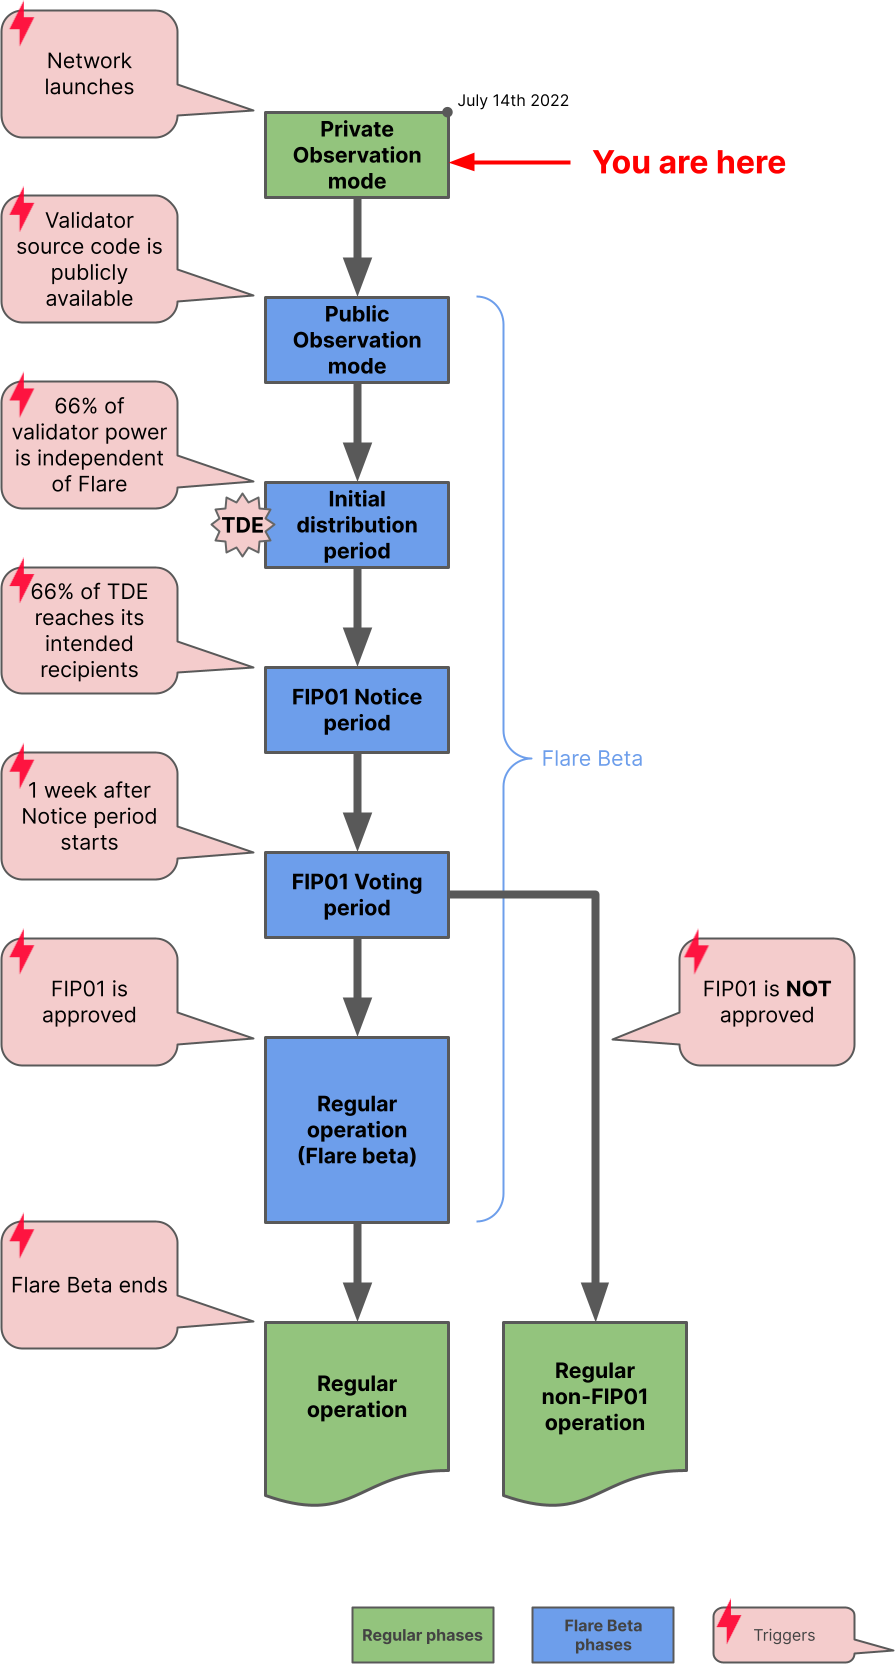
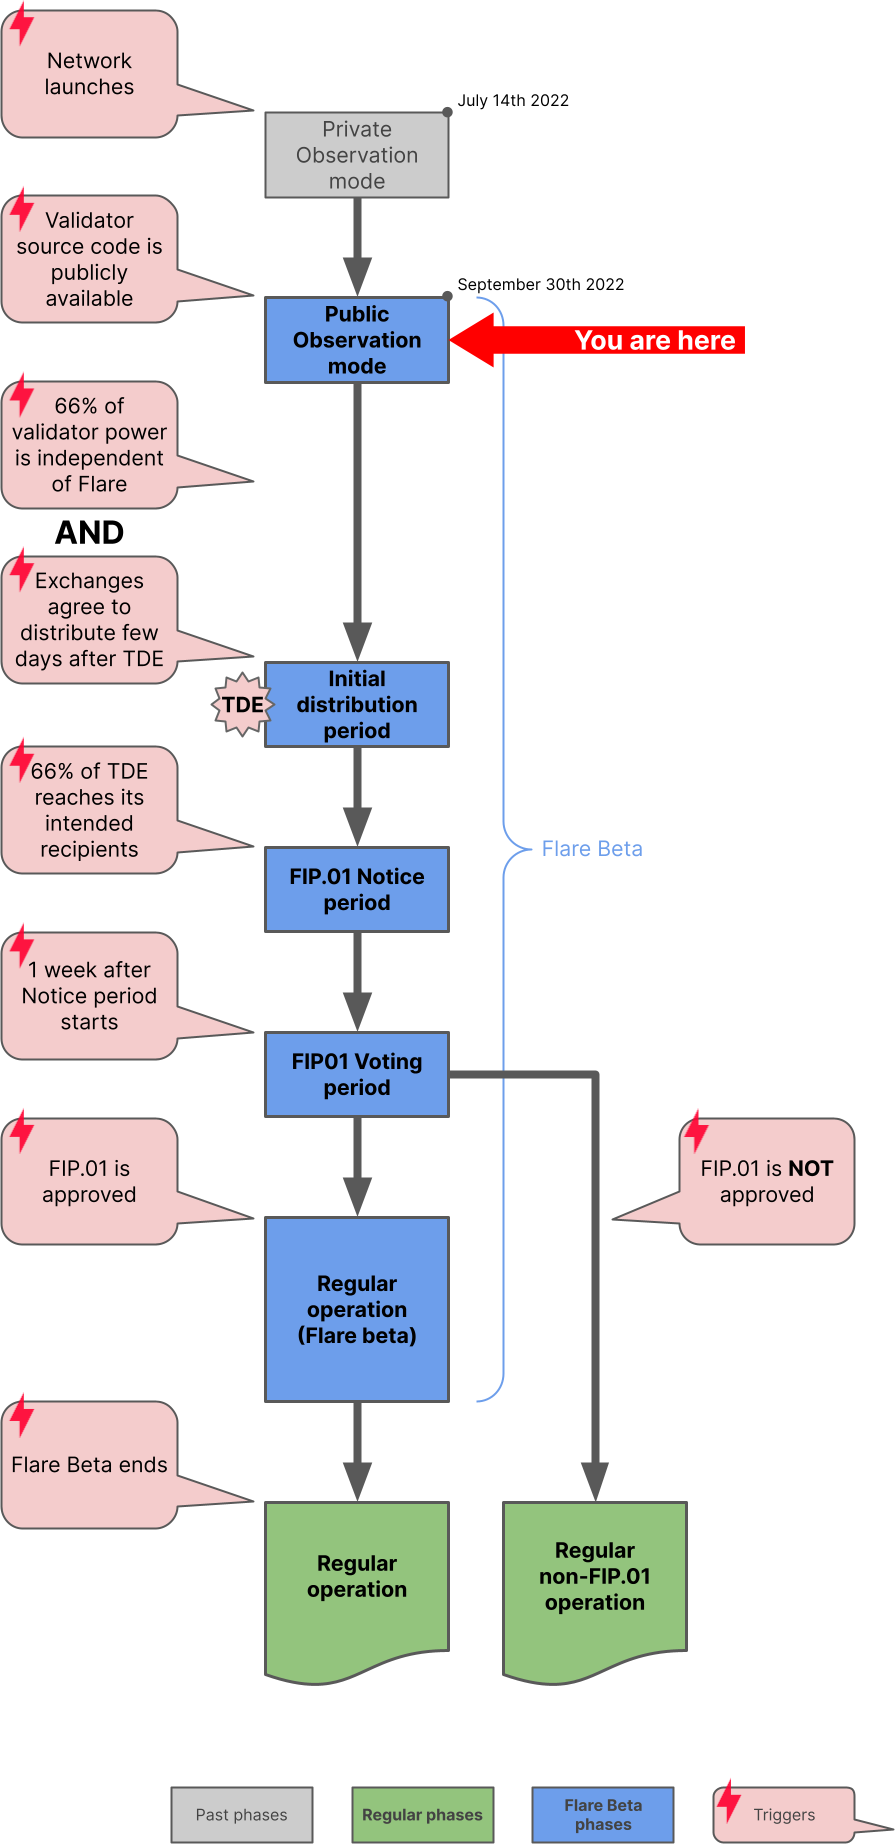
Update Launch Process page

diff --git a/docs/tech/flare-launch-process.md b/docs/tech/flare-launch-process.md
@@ -68,8 +68,8 @@ This initial period is called **Flare Beta**, and it will span several launch ph
 During this period:
 
 * There are 22 total validators **with equal validation power** (20K FLR each, initially).
-    * 5 run by the Flare Foundation.
-    * 15 run by 3 professional validators.
+    * 4 run by the Flare Foundation.
+    * 16 run by 4 professional validators.
     * 2 "virtual validators" collectively run by ALL FTSO data providers together.
 
         FTSO data providers have their initial validation power **artificially reduced** so that all of them combined have the power of **two** validators (i.e. 40K FLR tokens).
@@ -106,19 +106,19 @@ FTSO data providers:
 
 !!! danger "Trigger: The Flare validator source code becomes publicly available"
 
+Professional validators start onboarding, so the network stars becoming decentralized.
+
 FTSO data providers:
 
-* Can now deploy their own **validator** nodes.
+* Can submit prices, as they do on Songbird, but don't act as validators since they won't have funds to stake until the TDE.
 
-* Submit prices but are not rewarded. [All inflation is burned during observation mode](https://flare.xyz/om-inflation/).
-
-* Act as validators and their voting power [depends on their FTSO performance and stake](./validators.md).
+* Are not rewarded. [All inflation is burned during observation mode](https://flare.xyz/om-inflation/).
 
 ---
 
 ### Initial Distribution Period
 
-!!! danger "Trigger: 66% of validator power is independent of Flare,<br/>OR <br/>January 14th 2023 (whatever comes first)"
+!!! danger "Trigger: 66% of validator power is independent of Flare,<br/>AND <br/>Exchanges agree to distribute the FLR token to their customers within a few days of the TDE"
 
 !!! important "Token Distribution Event (TDE) happens"
     The **new airdrop** is sent to the Flare addresses provided by XRP token holders when they claimed.
@@ -126,6 +126,12 @@ FTSO data providers:
     Part of the airdrop is expected to go to Exchange accounts, which will then distribute it to the users that originally claimed (the **intended recipients**).
 
 Flare will monitor how many of the airdrop tokens have reached the intended recipients, by following the Exchange's communication channels.
+
+FTSO data providers:
+
+* Can now deploy their own **validator** nodes. The guide to do so will be available.
+
+* Act as validators and their voting power [depends on their FTSO performance and stake](./validators.md).
 
 FTSO and validator rewards are enabled.
 Inflation is not burned anymore.
